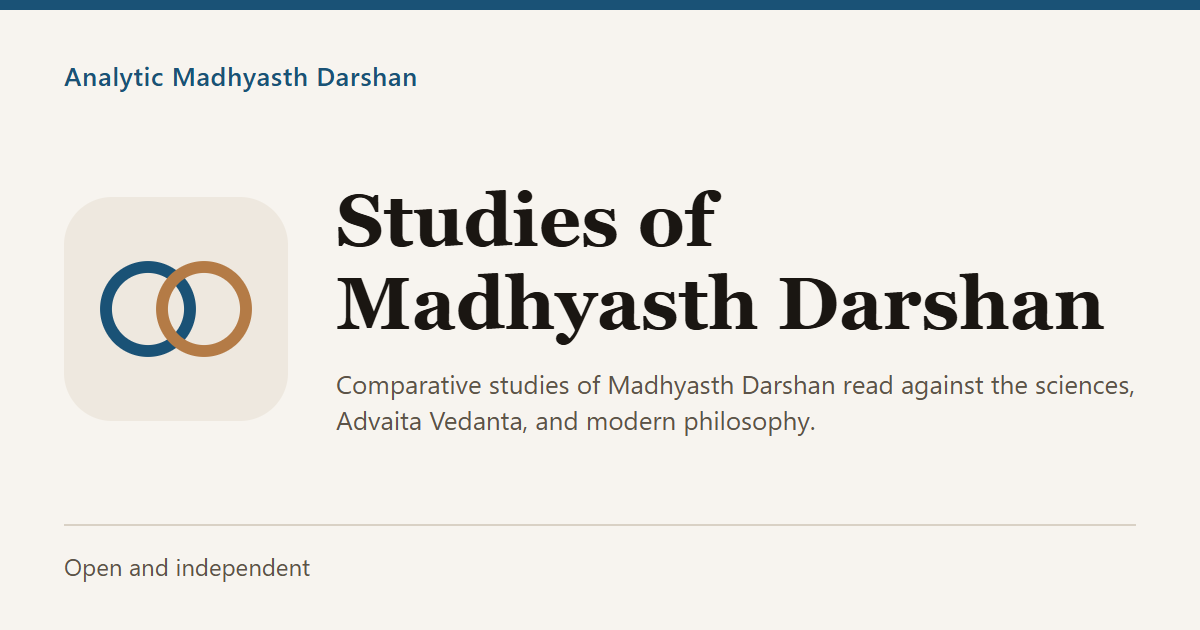
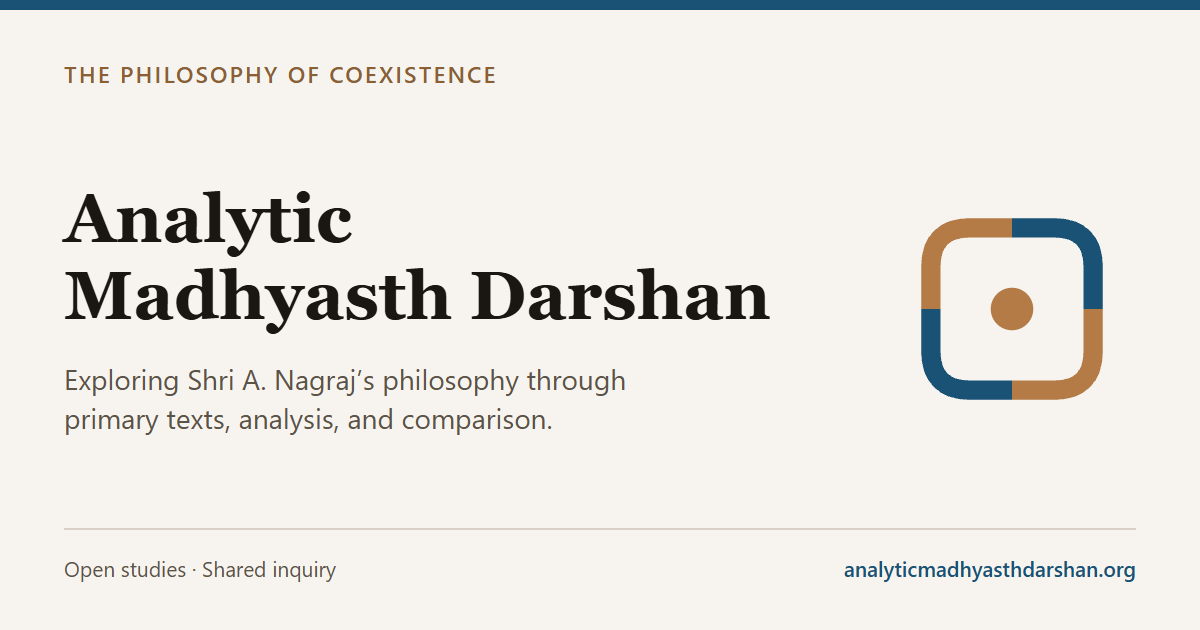
Improve homepage share card with project identity and concise introduction

diff --git a/Scripts/_html_to_png.js b/Scripts/_html_to_png.js
@@ -58,7 +58,7 @@ async function main() {
     // Fail instead of publishing clipped text when catalog titles grow.
     const layoutErrors = await page.evaluate(() => {
       const errors = [];
-      for (const selector of ['.eyebrow', '.icon', '.copy', '.title', '.blurb', '.cats', '.status']) {
+      for (const selector of ['.eyebrow', '.icon', '.copy', '.title', '.blurb', '.cats', '.status', '.site']) {
         const element = document.querySelector(selector);
         if (!element) continue;
         const box = element.getBoundingClientRect();

diff --git a/Scripts/_build_social_cards.py b/Scripts/_build_social_cards.py
@@ -101,9 +101,17 @@ _CARD_TEMPLATE = """<!DOCTYPE html>
   }}
   .status.draft {{ background: #fef3c7; color: #92400e; }}
   .status.progress {{ background: #f5ebe0; color: #8b5e34; }}
+  .home .eyebrow {{ font-size: 23px; letter-spacing: .09em; text-transform: uppercase; color: #8b5e34; }}
+  .home .main {{ flex-direction: row-reverse; gap: 40px; }}
+  .home .icon {{ width: 248px; height: 248px; flex-basis: 248px; background: transparent; }}
+  .home .icon svg {{ width: 232px; height: 232px; }}
+  .home .title {{ font-size: 68px; line-height: 1.14; text-wrap: initial; }}
+  .home .blurb {{ margin-top: 24px; font-size: 28px; max-width: 44ch; }}
+  .home .foot {{ font-size: 21px; }}
+  .site {{ color: #1a5276; font-weight: 600; white-space: nowrap; }}
 </style>
 </head>
-<body>
+<body class="{layout}">
 <p class="eyebrow">{eyebrow}</p>
 <div class="main">
   <div class="icon" aria-hidden="true">{icon}</div>
@@ -115,6 +123,7 @@ _CARD_TEMPLATE = """<!DOCTYPE html>
 <div class="foot">
   <span class="cats">{cats}</span>
   {status}
+  {site}
 </div>
 </body>
 </html>
@@ -154,6 +163,7 @@ def render_card(
     status: str | None,
     cats: str,
     icon: str = "coexistence",
+    layout: str = "study",
 ) -> None:
     status_html = ""
     if status:
@@ -165,13 +175,15 @@ def render_card(
     page = _CARD_TEMPLATE.format(
         width=CARD_WIDTH,
         height=CARD_HEIGHT,
+        layout=html.escape(layout),
         title_size=_title_size(title),
         eyebrow=html.escape(eyebrow),
-        title=html.escape(title),
+        title=html.escape(title).replace("Analytic ", "Analytic<br>", 1) if layout == "home" else html.escape(title),
         blurb=f'<p class="blurb">{html.escape(_truncate(blurb, 120))}</p>' if blurb else '',
         icon=topic_icon_html(icon),
         status=status_html,
         cats=html.escape(cats),
+        site='<span class="site">analyticmadhyasthdarshan.org</span>' if layout == 'home' else '',
     )
     with tempfile.TemporaryDirectory() as tmp:
         source = Path(tmp) / "card.html"
@@ -217,9 +229,9 @@ CARD_MANIFEST = SCRIPTS / 'social-cards.json'
 def card_contracts() -> dict:
     from _theme_icons import study_icon_name
 
-    cards = {DEFAULT_CARD: dict(eyebrow="Analytic Madhyasth Darshan", title="Studies of Madhyasth Darshan",
-              blurb="Comparative studies of Madhyasth Darshan read against the sciences, Advaita Vedanta, and modern philosophy.",
-              status=None, cats="Open and independent", icon="coexistence")}
+    cards = {DEFAULT_CARD: dict(eyebrow="The philosophy of coexistence", title="Analytic Madhyasth Darshan",
+              blurb="Exploring Shri A. Nagraj’s philosophy through primary texts, analysis, and comparison.",
+              status=None, cats="Open studies · Shared inquiry", icon="akhand-samaj", layout="home")}
     for row in _catalog_rows():
         cards[card_path(row.slug).name] = dict(eyebrow="Analytic Madhyasth Darshan", title=row.title,
             icon=study_icon_name(row.slug) or "coexistence",
